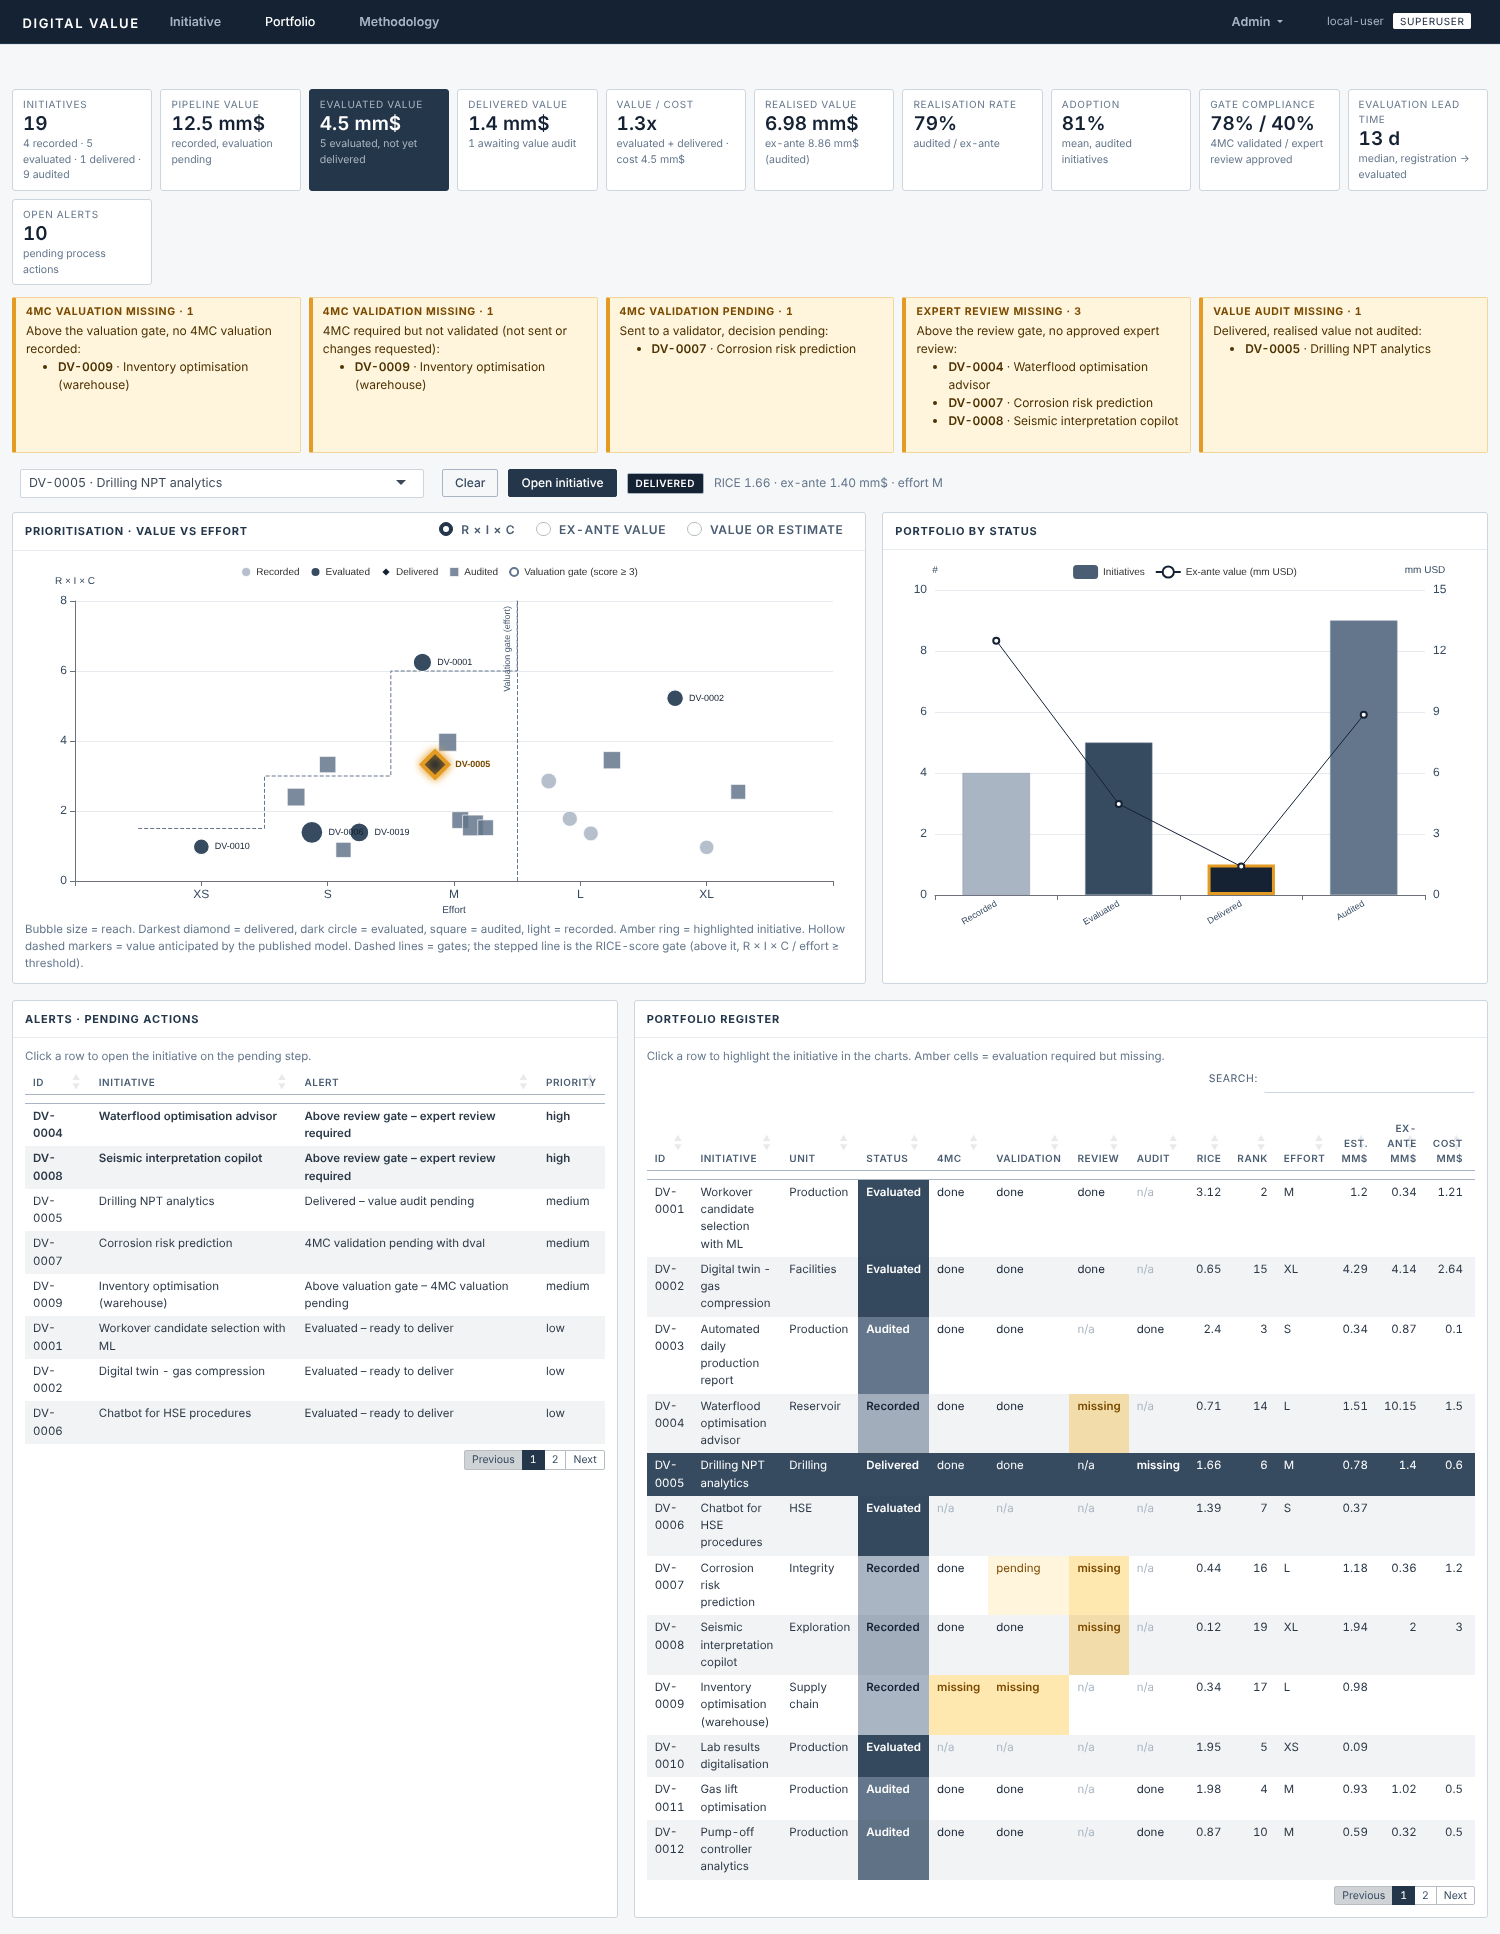
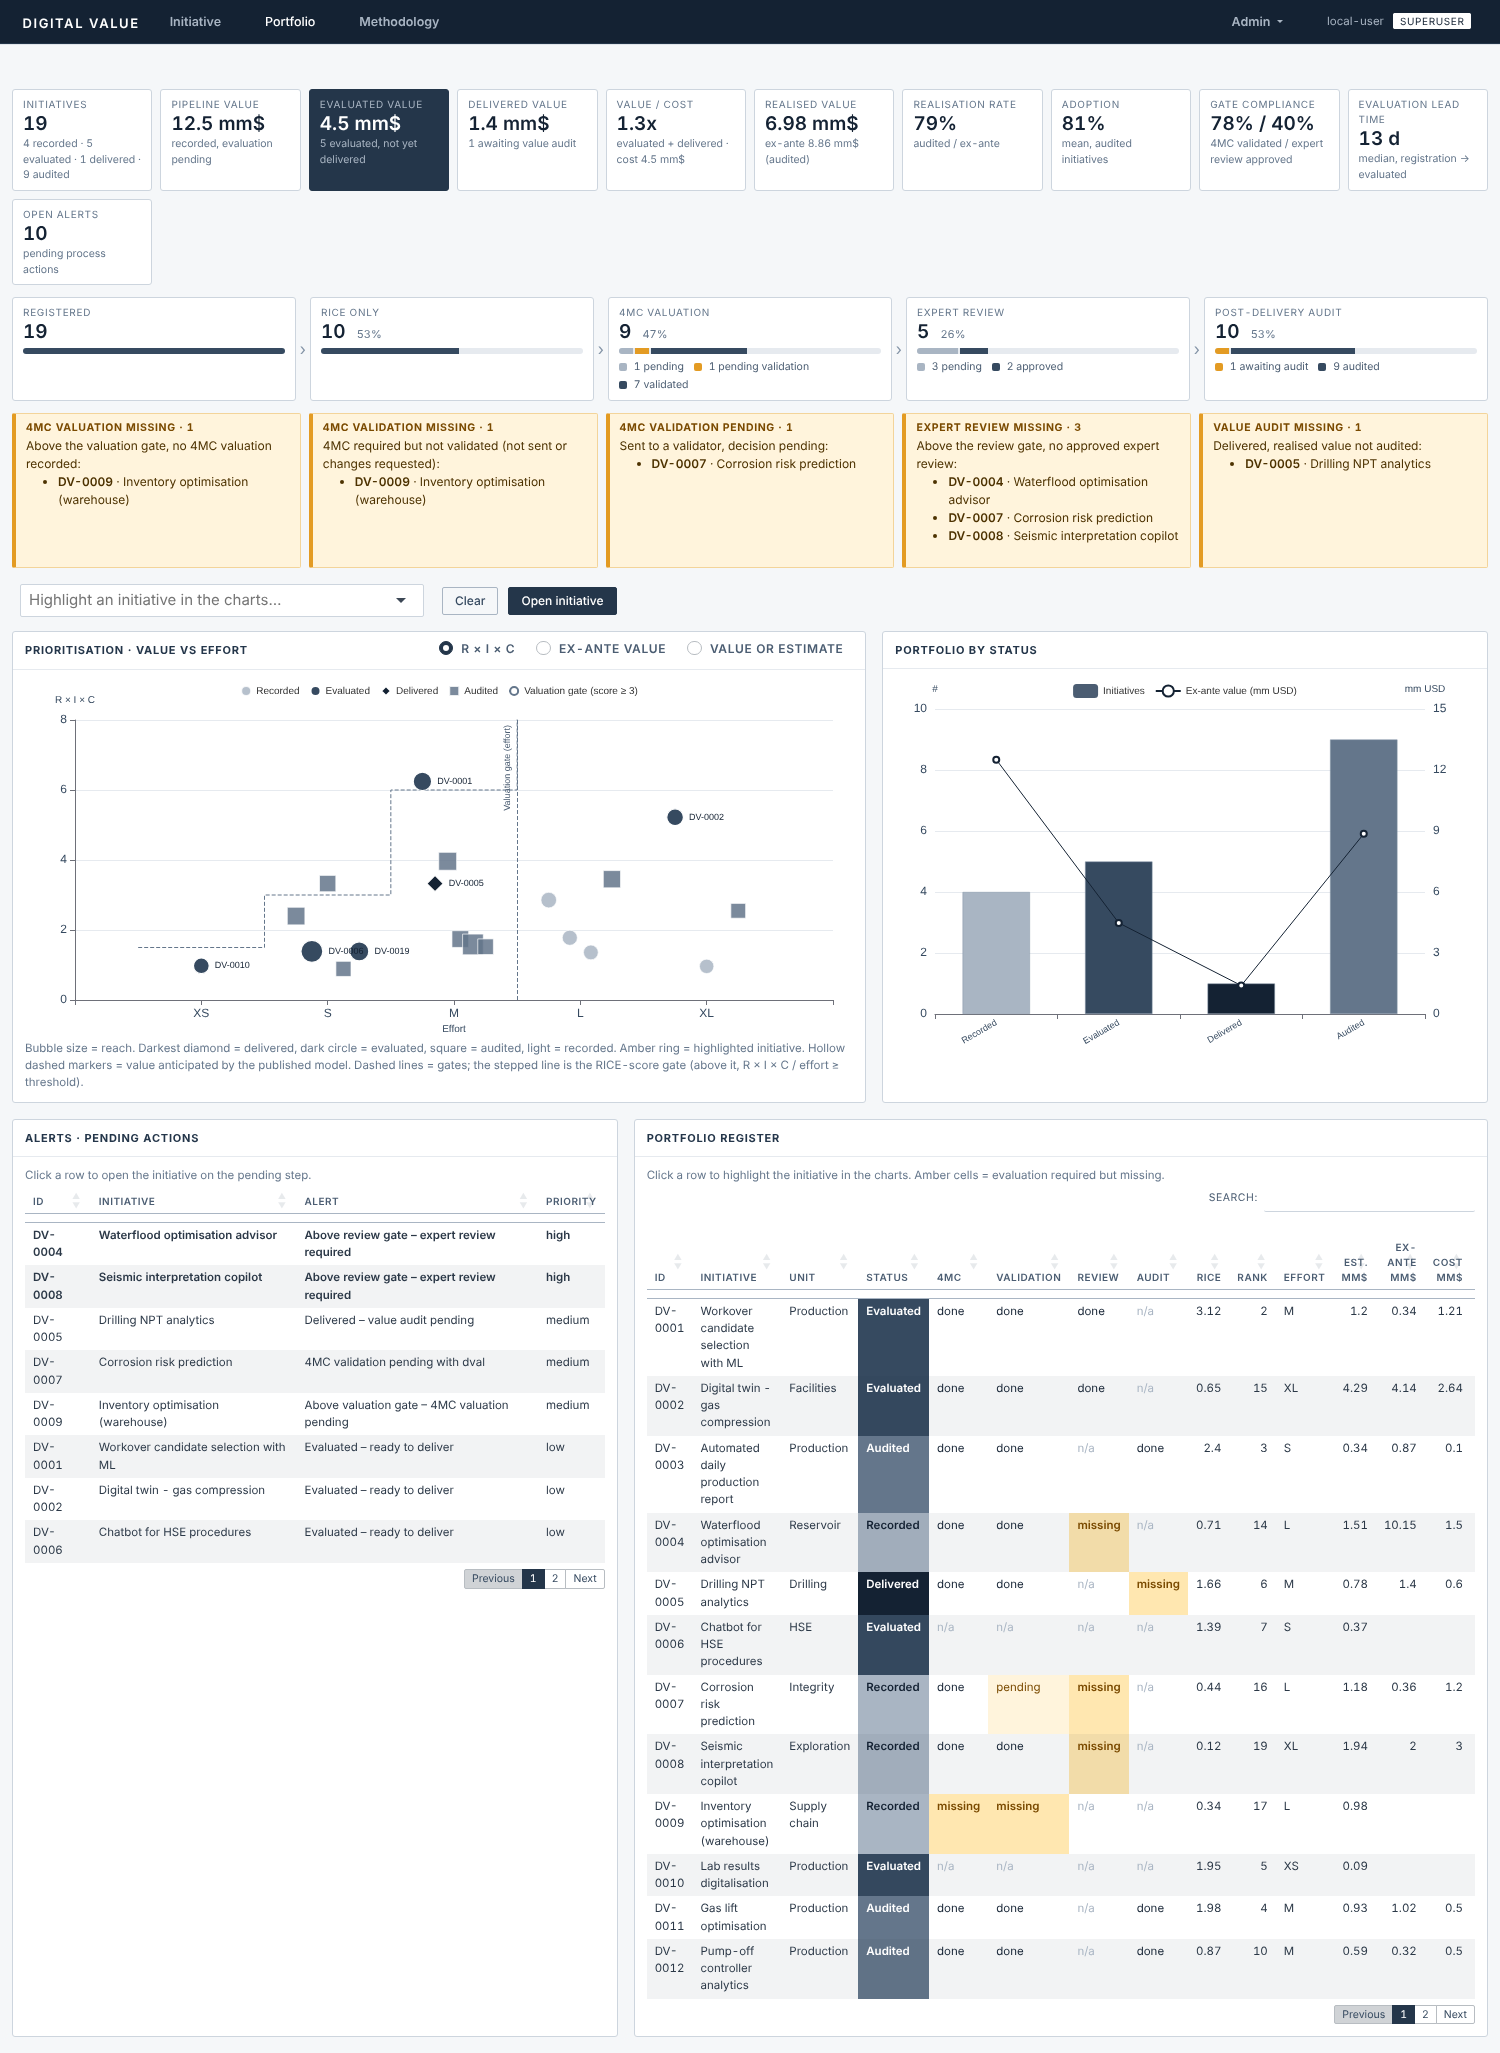
Portfolio evaluation funnel, intangible 4MC metric, no end date
- Portfolio: evaluation funnel (registered, RICE only, 4MC valuation
  pending / pending validation / validated, expert review pending /
  approved, post-delivery awaiting audit / audited) with share bars
- 4MC: intangible benefits (metric I) recorded as free text with no
  monetary value; shown as a tile and sent with the 4MC for validation
- Registration: planned end date removed from the form (column kept)
- Methodology (EN/ES), README, demo data, tests and screenshots updated

Claude-Session: https://claude.ai/code/session_01N1EZf5BA3aM5WkjAKRAdJP

diff --git a/inst/app/www/styles.css b/inst/app/www/styles.css
@@ -164,3 +164,26 @@ table.dataTable tbody tr.selected > * { box-shadow: inset 0 0 0 9999px var(--c70
 
 /* 4MC card: lines take the full width when the calculator is locked */
 .dv-calc-hidden > .bslib-grid > .bslib-grid-item:last-child { grid-column: 1 / -1 !important; }
+
+/* Portfolio: evaluation funnel */
+.dv-funnel { display: grid; grid-template-columns: repeat(5, minmax(0, 1fr)); gap: 14px; margin-bottom: 12px; }
+@media (max-width: 900px) { .dv-funnel { grid-template-columns: repeat(2, minmax(0, 1fr)); } }
+.dv-funnel-stage { position: relative; background: #fff; border: 1px solid var(--c200); border-radius: 3px; padding: 7px 10px; }
+.dv-funnel-stage:not(:last-child)::after { content: "\203A"; position: absolute; right: -11px; top: 50%;
+  transform: translateY(-50%); color: var(--c400); font-size: 16px; }
+.dv-funnel-n { font-size: 19px; font-weight: 600; line-height: 1.25; color: var(--c900); }
+.dv-funnel-pct { font-size: 11px; font-weight: 400; color: var(--c500); margin-left: 6px; }
+.dv-funnel-bar { display: flex; gap: 2px; height: 6px; background: var(--c100); border-radius: 3px;
+  overflow: hidden; margin: 4px 0 5px; }
+.dv-funnel-seg { height: 100%; }
+.dv-funnel-parts { display: flex; flex-wrap: wrap; gap: 2px 10px; font-size: 10.5px; color: var(--c600); }
+.dv-funnel-key { display: inline-block; width: 8px; height: 8px; border-radius: 2px; margin-right: 4px; vertical-align: -1px; }
+.dv-funnel-all, .dv-funnel-done { background: var(--c700); }
+.dv-funnel-wait { background: #E39B23; }
+.dv-funnel-todo { background: var(--c300); }
+@media (max-width: 900px) { .dv-funnel-stage::after { display: none; } }
+/* 4MC card: seven tiles on one row */
+@media (min-width: 1200px) {
+  .dv-kpis-4mc { grid-template-columns: repeat(7, minmax(0, 1fr)); }
+  .dv-kpis-4mc .dv-kpi-value { font-size: 16px; }
+}

diff --git a/README.md b/README.md
@@ -5,7 +5,7 @@ Shiny application, built as an R package, for recording digital initiatives and 
 The app has two main tabs:
 
 * **Initiative**: select an initiative, or register a new one, and work through its lifecycle.
-* **Portfolio**: KPIs, the value-vs-effort and status charts, alerts, the validations waiting for you, and the register of all initiatives. Search an initiative, or click it in the register, to highlight it in the charts; **Open initiative** jumps to it.
+* **Portfolio**: KPIs, the evaluation funnel, the value-vs-effort and status charts, alerts, the validations waiting for you, and the register of all initiatives. Search an initiative, or click it in the register, to highlight it in the charts; **Open initiative** jumps to it.
 
 A **Methodology** tab, open to everyone, explains the method in **English and Spanish**: a summary with the principles, then one section per step, the gates, the value models, roles, KPIs and a glossary. The text is in `inst/app/methodology/methodology_en.md` and `methodology_es.md`, so it can be edited without touching code. Thresholds, weights and conversion factors are written as `{{placeholders}}` and filled from the active configuration, so the document always matches what the app does.
 
@@ -24,7 +24,7 @@ Every initiative goes through four statuses: **Recorded → Evaluated → Delive
 | View | Step | What is recorded | Who | Required when |
 |---|---|---|---|---|
 | **Evaluation** (before delivery) | 1 Registration & RICE | Name, description, owner (searched in the Posit Connect directory), unit, dates and the RICE inputs, in one form | **Everyone**. The record is then locked; only a superuser can modify it | Always |
-| | 2 4MC valuation | Calculation lines per metric (P, R, M, T and cost C), each with its formula, parameters and comment | Owner (or superuser) | Effort ≥ L or RICE score ≥ 3 (*valuation gate*) |
+| | 2 4MC valuation | Calculation lines per metric (P, R, M, T, cost C and intangible I), each with its formula, parameters and comment | Owner (or superuser) | Effort ≥ L or RICE score ≥ 3 (*valuation gate*) |
 | | 3 4MC validation | The owner sends the 4MC to a validator (a Posit Connect user), who validates it or requests changes with a comment. Lines are locked while pending or once validated | Validator | Whenever the 4MC is required |
 | | 4 Expert review | Manual evaluation, Approve or Rework, with its **own 4MC figures**, including the validated cost C | Superuser | Ex-ante value ≥ 5 mm USD or cost ≥ 1 mm USD (*review gate*) |
 | **Realisation** (after delivery) | 5 Delivery | Mark as delivered (a superuser can revert it) | Owner or superuser | When Evaluated |
@@ -69,7 +69,7 @@ Every initiative goes through four statuses: **Recorded → Evaluated → Delive
 
 ### 4MC metrics
 
-**4MC** = four value metrics (**P**roduction, **R**eserves, **M**onetary, **T**ime saved) plus **C**ost.
+**4MC** = four value metrics (**P**roduction, **R**eserves, **M**onetary, **T**ime saved) plus **C**ost. **Intangible** benefits (**I**) can be recorded too, as free text with no monetary value: they never add to the value, but are part of the valuation the validator checks.
 
 The same metrics are used at every stage: the 4MC valuation, the expert review and the value audit. There are four value metrics (P, R, M, T) and one cost metric (C). Cost is tracked next to value but **never added to it**. It gives the value/cost ratio, and its planned value feeds the cost side of the review gate. The planned cost is the approved review's C, else the 4MC cost estimate, else the cost entered at registration.
 
@@ -114,6 +114,7 @@ Two log-linear regressions chain the lifecycle (`R/fct_value_model.R`):
   * value: pipeline (recorded), evaluated, delivered and realised value, and value/cost;
   * accuracy: realisation rate (audited ÷ ex-ante) and mean adoption;
   * process: gate compliance (share of required 4MCs validated and reviews approved), evaluation lead time (registration → Evaluated) and open alerts.
+* **Evaluation funnel** (`evaluation_funnel()`): registered initiatives → RICE only → 4MC valuation (pending, pending validation, validated) → expert review (pending, approved) → post-delivery audit (awaiting audit, audited). Each stage shows its count, its share of the registered initiatives and the breakdown.
 * **Prioritisation chart** (value vs effort, bubble size = reach): the y-axis is reach × impact × confidence (RICE without the effort divisor), the ex-ante value, or the value / model estimate. On the R × I × C view the RICE-score gate is drawn as a staircase (threshold × effort weight): initiatives above it pass the valuation gate. Single-hue palette: evaluated initiatives are dark circles, delivered ones the darkest diamonds, audited ones squares. A highlighted initiative gets an amber ring and label, and its status bar is outlined.
 
 ## Architecture

diff --git a/inst/app/methodology/methodology_es.md b/inst/app/methodology/methodology_es.md
@@ -38,7 +38,7 @@ Esta aplicación evalúa y da seguimiento al valor. **No** aprueba ni rechaza la
 
 ## 1 · Registro y RICE
 
-La iniciativa se registra con nombre, descripción breve, **responsable** (buscado en el directorio de usuarios de Posit Connect), unidad de negocio y fechas previstas. **Los datos RICE se registran en el mismo formulario.** El costo no se ingresa aquí: forma parte de la valoración 4MC (métrica C).
+La iniciativa se registra con nombre, descripción breve, **responsable** (buscado en el directorio de usuarios de Posit Connect), unidad de negocio y fecha prevista de inicio. **Los datos RICE se registran en el mismo formulario.** El costo no se ingresa aquí: forma parte de la valoración 4MC (métrica C).
 
 **RICE** es una puntuación cualitativa para comparar y ordenar iniciativas:
 
@@ -71,7 +71,7 @@ Una iniciativa permanece **Recorded** hasta completar todos los pasos requeridos
 
 ## 2 · Valoración 4MC
 
-El **responsable** (o un superusuario) cuantifica la iniciativa con cinco métricas:
+El **responsable** (o un superusuario) cuantifica la iniciativa con cinco métricas, más los beneficios intangibles registrados como texto:
 
 | Métrica | Unidad | Conversión a mm USD | Horizonte |
 |---|---|---|---|
@@ -80,6 +80,7 @@ El **responsable** (o un superusuario) cuantifica la iniciativa con cinco métri
 | **M** · Monetario | mm USD por año | Tal como se ingresa | Anual |
 | **T** · Tiempo ahorrado | miles de horas por año | khoras × 1.000 × {{time_value_usd_h}} USD/h | Anual |
 | **C** · Costo | mm USD | Tal como se ingresa; **separado del valor** | Período de implementación |
+| **I** · Intangible | Texto libre | **No se monetiza**: nunca se suma al valor | – |
 
 {{reserve_table}}
 
@@ -92,12 +93,13 @@ El **tiempo ahorrado** se valora al salario promedio ({{avg_salary_usd_year}} US
 * Monetario: estimación directa; eventos × ahorro por evento; costo evitado × reducción de su probabilidad.
 * Tiempo ahorrado: estimación directa; usuarios × horas por semana × semanas; tareas × minutos ahorrados.
 * Costo: capex + opex del período; esfuerzo en personas-mes × tarifa + licencias.
+* Intangible: descripción libre de un beneficio sin valor monetario que merece quedar registrado, p. ej. cultura de seguridad, reputación, retención de conocimiento.
 
 Cada línea guarda sus parámetros, la fórmula legible y un comentario. Ejemplo: *10 reparaciones (workovers) al año, cada una de 30 BOPD, con la tasa de éxito aumentada del 60% al 70%*:
 
 `10 trabajos × 30 BOPD × (70% − 60%) = {{example_workover_bopd}} BOPD → {{example_workover_mm}} mm USD`
 
-El **valor 4MC** es P + R + M + T (métricas anuales más reservas de única vez). El costo se muestra al lado, con la relación valor/costo. Una valoración con solo líneas de costo no completa el paso: se necesita al menos una métrica de valor.
+El **valor 4MC** es P + R + M + T (métricas anuales más reservas de única vez). El costo se muestra al lado, con la relación valor/costo. Las líneas intangibles no suman valor; se envían al validador junto con el resto del 4MC. Una valoración con solo líneas de costo no completa el paso: se necesita al menos una línea de valor o intangible.
 
 Una vez enviadas a validación, las líneas quedan bloqueadas para el responsable. Se desbloquean si el validador solicita cambios. Un superusuario siempre puede editarlas.
 
@@ -170,6 +172,7 @@ Responsables y validadores son usuarios de Posit Connect. Los superusuarios se i
 
 ## Indicadores y mejora continua
 
+* **Embudo de evaluación** (Portfolio): cuántas iniciativas están registradas; requieren solo RICE; requieren valoración 4MC (pendiente, pendiente de validación, validada); requieren revisión experta (pendiente, aprobada); y están entregadas (auditoría pendiente, auditadas).
 * **Valor en cartera, evaluado, entregado y realizado** (mm USD) y **valor/costo** de las iniciativas evaluadas y entregadas.
 * **Tasa de realización**: valor auditado ÷ valor ex-ante. Mide la precisión de las estimaciones.
 * **Adopción**: adopción promedio de las iniciativas auditadas.

diff --git a/inst/app/methodology/methodology_en.md b/inst/app/methodology/methodology_en.md
@@ -38,7 +38,7 @@ This app evaluates and tracks value. It does **not** approve or reject the execu
 
 ## 1 · Registration & RICE
 
-The initiative is registered with a name, a brief description, the **owner** (searched in the Posit Connect user directory), the business unit and planned dates. The **RICE inputs are recorded in the same form**. Cost is not entered here: it is part of the 4MC valuation (metric C).
+The initiative is registered with a name, a brief description, the **owner** (searched in the Posit Connect user directory), the business unit and the planned start date. The **RICE inputs are recorded in the same form**. Cost is not entered here: it is part of the 4MC valuation (metric C).
 
 **RICE** is a qualitative score used to compare and rank initiatives:
 
@@ -71,7 +71,7 @@ An initiative stays **Recorded** until every required step is complete; it then 
 
 ## 2 · 4MC valuation
 
-The **owner** (or a superuser) quantifies the initiative with five metrics:
+The **owner** (or a superuser) quantifies the initiative with five metrics, plus intangible benefits recorded as text:
 
 | Metric | Unit | Converted to mm USD by | Horizon |
 |---|---|---|---|
@@ -80,6 +80,7 @@ The **owner** (or a superuser) quantifies the initiative with five metrics:
 | **M** · Monetary | mm USD per year | As entered | Annual |
 | **T** · Time saved | khours per year | khours × 1,000 × {{time_value_usd_h}} USD/h | Annual |
 | **C** · Cost | mm USD | As entered; **kept separate from value** | Implementation period |
+| **I** · Intangible | Free text | **Not monetised**: never added to value | – |
 
 {{reserve_table}}
 
@@ -92,12 +93,13 @@ The **owner** (or a superuser) quantifies the initiative with five metrics:
 * Monetary: direct estimate; events × saving per event; avoided cost × reduction of its probability.
 * Time saved: direct estimate; users × hours per week × weeks; tasks × minutes saved.
 * Cost: capex + opex over the period; effort in person-months × rate + licences.
+* Intangible: a free-text description of a benefit that has no monetary value but deserves to be recorded, e.g. safety culture, reputation, knowledge retention.
 
 Every line stores its parameters, the human-readable formula and a comment. Example: *10 workovers per year, each producing 30 BOPD, with the success rate increased from 60% to 70%*:
 
 `10 jobs × 30 BOPD × (70% − 60%) = {{example_workover_bopd}} BOPD → {{example_workover_mm}} mm USD`
 
-The **4MC value** is P + R + M + T (annual metrics plus one-off reserves). Cost is shown next to it, with the value/cost ratio. A valuation with cost lines only does not complete the step: at least one value metric is needed.
+The **4MC value** is P + R + M + T (annual metrics plus one-off reserves). Cost is shown next to it, with the value/cost ratio. Intangible lines add nothing to the value; they are sent to the validator with the rest of the 4MC. A valuation with cost lines only does not complete the step: at least one value or intangible line is needed.
 
 Once sent for validation, the lines are locked for the owner. They are unlocked again if the validator requests changes. A superuser can always edit them.
 
@@ -170,6 +172,7 @@ Owners and validators are Posit Connect users. Superusers are identified by thei
 
 ## KPIs and continuous improvement
 
+* **Evaluation funnel** (Portfolio): how many initiatives are registered; need only RICE; need a 4MC valuation (pending, pending validation, validated); need an expert review (pending, approved); and are delivered (awaiting audit, audited).
 * **Pipeline, evaluated, delivered and realised value** (mm USD) and **value/cost** of the evaluated and delivered initiatives.
 * **Realisation rate**: audited value ÷ ex-ante value. Measures the accuracy of the estimates.
 * **Adoption**: mean adoption of the audited initiatives.
